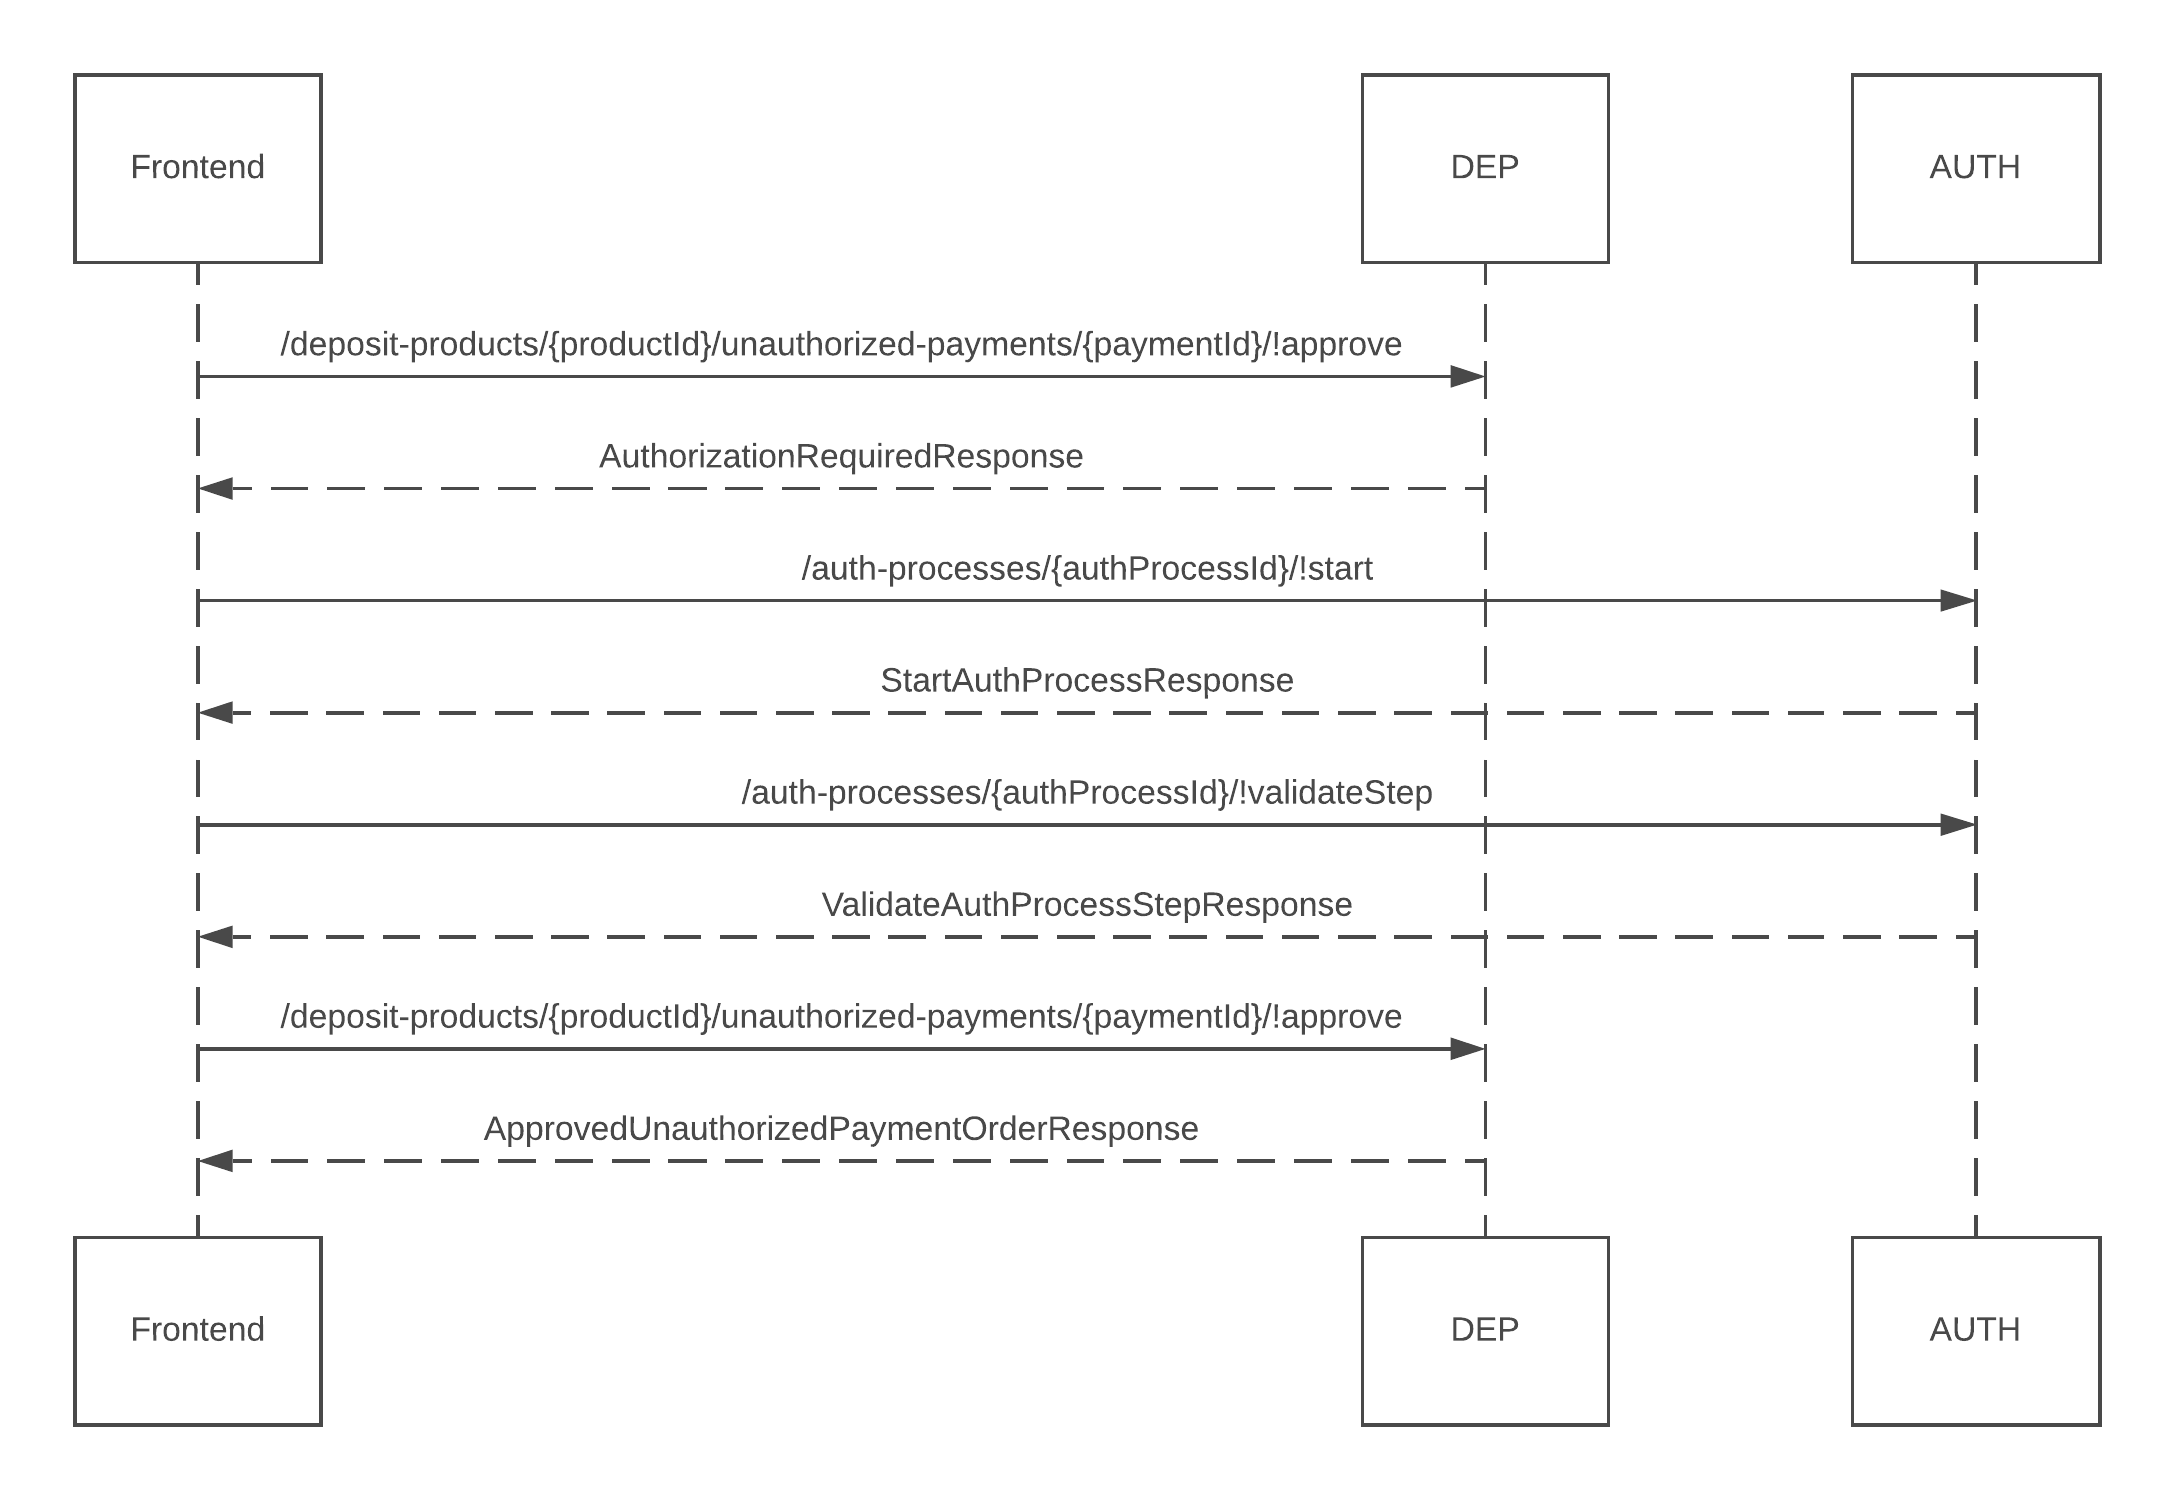
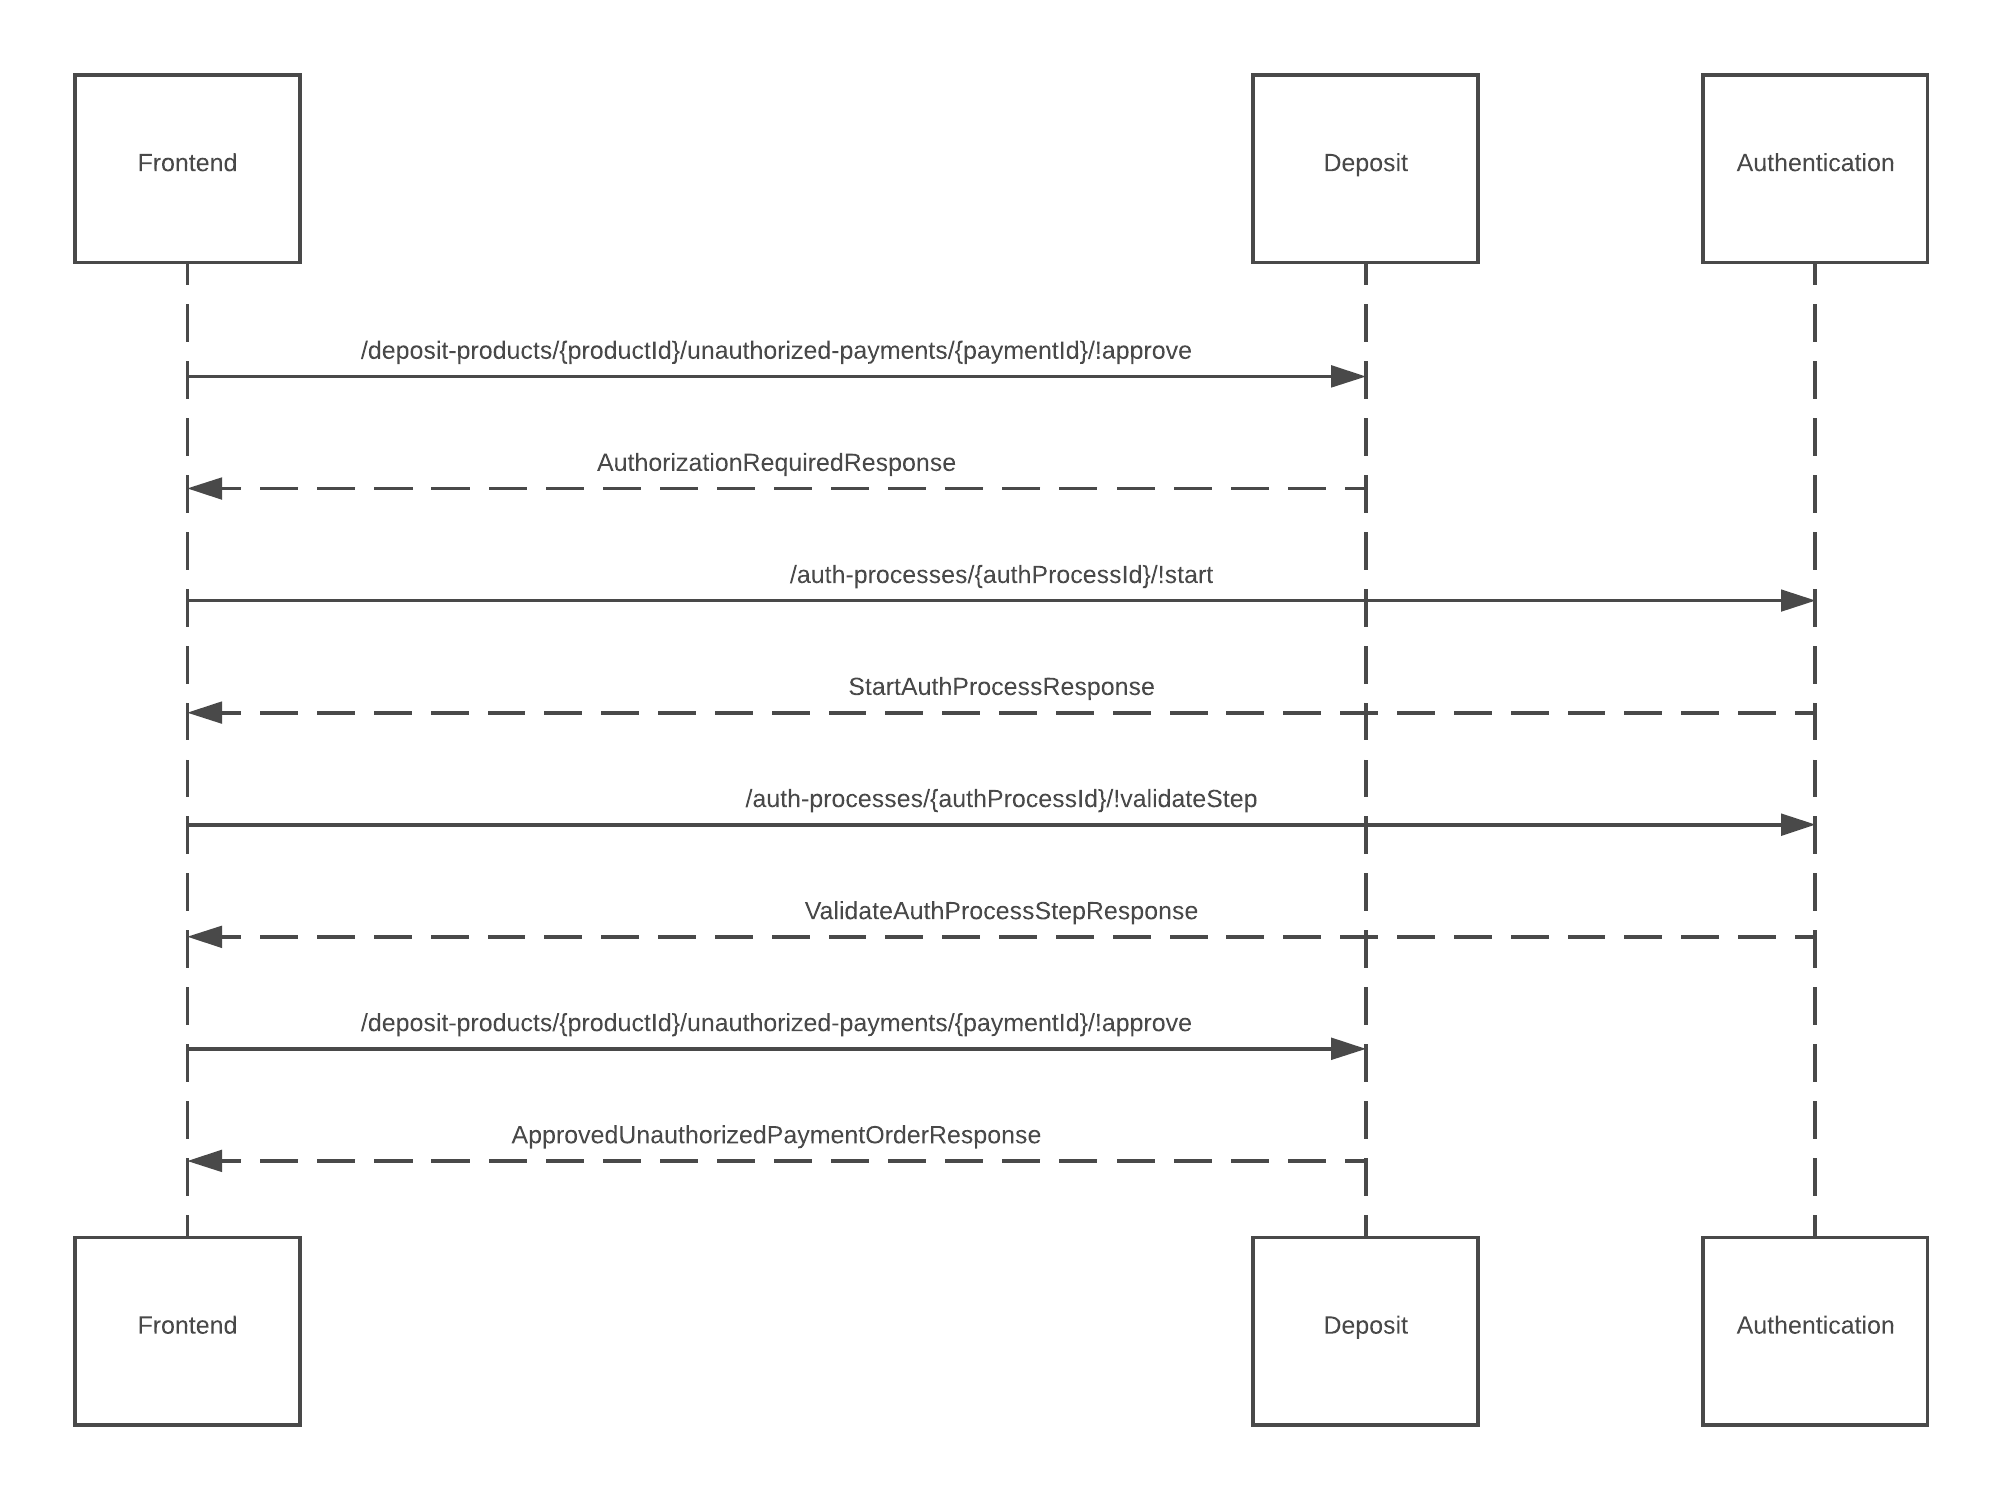
Update

diff --git a/deposits/deposits.md b/deposits/deposits.md
@@ -1,10 +1,13 @@
 # IB Deposits
 
-The **deposit service** is responsible for allowing a user to view and manage their deposit product accounts and create payments.
+## Responsibilities of the service
+
+- User can view and manage their deposit product.
+- Manage currency components.
+- User can view and manage their transactions.
+- Ability to create internal and external payment orders.
 
 ## Overview
-
-All endpoints for this service are available in the [Deposits API](https://doc.ffc.internal/book/mw-ib/mw-gen-deposit-ib/deposit-ib/latest/index.html) documentation.
 
 ### Deposit Product Account
 A `deposit product` is created during the onboarding process (see [user activation service](https://doc.ffc.internal/book/mw-ib/mw-gen-user-activation-ib.html)). Its parameters are set according to deposit product `type` selected by the user when created. A client can have more then one deposit product.
@@ -18,7 +21,7 @@ The service allows a customer to retrieve and search all their transactions. The
 The platform supports *automatic currency conversion* with incoming/outgoing transactions. This can occur when an account has insufficient funds when making an outgoing payment, or an incoming payment is in a currency that is not supported by that account. Thus, a single transaction can contain multiple sub currency conversions and fees.
 
 As a result, there are two types of transactions:
-- **RequiredTransaction**: Represents the “primary transaction” being carried out. Includes fees and any necessary auto conversions between currency components to satisfy a payment order. A required transaction can contain multiple *transactions(processedTransactions)*.
+- **RequiredTransaction**: Represents the "payment order" being carried out. Includes fees and any necessary auto conversions between currency components to satisfy a payment order. A required transaction can contain multiple *transactions(processedTransactions)*.
 - **Transaction(processedTransaction)**: Represents a single transaction i.e a currency conversion or fee. For every transaction there is one *RequiredTransaction*.
 
 Transaction statuses:
@@ -31,18 +34,14 @@ Other meta data associated with a transaction i.e merchant name can be found in 
 
 ### Payments
 
-The service allows a customer to create payment orders internally and externally:
+The service allows customer to create internal or external payment orders
 - **Internal Payment**: Payment between two internal accounts on the platform.
-- **External Payment**: Payment from an internal account to an account on an external platform.
+- **External Payment**: Payment from an internal account to an account in another financial institution.
 
 Types of Payments:
 - **Unauthorized Payments**: External payments **must** be authorised by the customer. The customer can perform authorisation using the [Auth service](https://doc.ffc.internal/book/mw-ib/mw-gen-auth-ib.html).
 - **Upcoming Payments**: Any payment that is created with a future due date.
 - **Deferred Payments**: A payment that is blocked while being processed. This could be due to insufficient funds or a *block* on the account.
-
-#### Payment order flow example
-
-![](payment_order_flow.png)
 
 ## How to use the service
 
@@ -51,6 +50,7 @@ The **Deposit service** requires that the user has been onboarded, has a deposit
 Certain operations like changing currency components or creating transactions can only be made when the deposit product is in `ACTIVE` state.
 
 - [Deposit Product](#deposit-product)
+    - [Get balance](#get-deposit-balance)  
     - [Exchange money](#exchange-money)
     - [Share account information](#share-account-information)
 - [Managing currency components](#managing-currency-components)
@@ -68,24 +68,24 @@ Certain operations like changing currency components or creating transactions ca
     - [Authorising a payment](#authorising-a-payment)
 
 ### Deposit Product
-To obtain the details of a deposit product, we can call `/{idProduct}`. The response contains details such as the name, currency components, holders, aggregated balance etc.
 
-We can also get balances for each currency component with `/{idProduct}/!getBalance`.
+#### Get deposit balance
+Retrieve balance for each currency component by calling `/deposit-products/{idProduct}/!getBalance`.
 
 #### Exchange money
-To exchange money between currency components call `/currency-exchanges`.
+To exchange money between currency components call `/deposit-products/{idProduct}/currency-exchanges`.
 
 #### Share account information
-To send user account information via email call `/!emailAccountInfo`.
+To send user account information via email call `/deposit-products/{idProduct}/!emailAccountInfo`.
 
 #### Managing currency components
 A user can manage the currency components of a deposit product by updating the primary currency or activating/deactivating currency components.
 
 #### Change primary currency
-To change the primary currency component call `/{idProduct}/currencyPriorities`. The desired primary current should have the highest priority.
+To change the primary currency component call `/deposit-products/{idProduct}/currencyPriorities`. The desired primary current should have the highest priority.
 
 #### Activate/deactivate components
-A currency component can be activated by calling `/{idProduct}/!activateCurrency` and deactivated by calling `/{idProduct}/!deactivateCurrency`.
+A currency component can be activated by calling `/deposit-products/{idProduct}/!activateCurrency` and deactivated by calling `/deposit-products/{idProduct}/!deactivateCurrency`.
 
 In order to deactivate a currency component, it **must** have zero balance and not be the primary currency.
 
@@ -94,7 +94,7 @@ The ability to activate or deactivate currency components also depends on the co
 ### Transactions
 Users can retrieve a list of `RequiredTransactions` or `ProcessedTransactions`. Either can be filtered by updating the `TransactionListRequest` object.
 
-Only `RequiredTransactions` can be updated. To update see `/required-transactions/{idTransaction}`.
+Only `RequiredTransactions` can be updated. Call `/deposit-products/{idProduct}/!deactivateCurrency` endpoint to update.
 
 #### RequiredTransaction's
 
@@ -104,31 +104,22 @@ Use the `/required-transactions/!search` endpoint to obtain the list of `ids` fo
 Use the `/transactions/!search` endpoint to obtain the list of `ids` followed by the `/transactions/!batchGet` endpoint to obtain the detail.
 
 ### Payments
-For each payment type the customer can retrieve a summary containing the aggregated sum, count and a list of payments.
 
 #### Unauthorized Payments
-To retrieve a summary of all `unauthorized payments` call `/!getUnauthorizedPaymentsSummary`.
-
-To retrieve a list of all the `unauthorized payments`, we can call the `/!search` endpoint to obtain the list of `ids` followed by the `/!batchGet` call to obtain the payment detail.
+To retrieve a summary of all `unauthorized payments` call `/deposit-products/{idProduct}/!getUnauthorizedPaymentsSummary`.
 
 #### Upcoming Payments
-To retrieve a summary of all `upcoming payments` call `/!getUpcomingSummary`.
+To retrieve a summary of all `upcoming payments` call `/deposit-products/{idProduct}/!getUpcomingSummary`.
 
-To retrieve a list of all the `upcoming payments`, we can call the `/!search` call to obtain the payment detail.
-
-An `upcoming payment` can be cancelled by calling the `/!cancel` endpoint.
+An `upcoming payment` can be cancelled by calling the `/deposit-products/{idProduct}/upcoming-payments/{idPayment}/!cancel` endpoint.
 
 #### Deferred Payments
-To retrieve a summary of all `deferred payments` call `/!getDeferredSummary`.
+To retrieve a summary of all `deferred payments` call `/deposit-products/{idProduct}/!getUpcomingSummary`.
 
-To retrieve a list of all the `deferred payments`, we can call the `/!search` endpoint to obtain the list of *id*'s followed by the `/!batchGet` call to obtain the payment detail.
-
-`Deferred` payment detail can be obtained by calling the `/deferred-transactions/{idTransaction}` endpoint.
-
-A `deferred payment` can be cancelled by calling the `/!cancel` endpoint.
+A `deferred payment` can be cancelled by calling the `/deposit-products/{idProduct}/deferred-transactions/{idTransaction}/!cancelPayment` endpoint.
 
 #### Create internal payment
-An Internal payment can be created by calling the `/!createInternalCreditTransfer`. The amount and the recipient's internal account number must be provided.
+An Internal payment can be created by calling `/deposit-products/{idProduct}/!createInternalCreditTransfer`. The amount, currency code and the recipient's internal account number must be provided.
 
 #### Create external payment
 
@@ -142,9 +133,9 @@ If everything is alright, the payment order is created.
 
 #### Authorising a payment
 Unauthorized payments can be authorised using the [Auth service](https://doc.ffc.internal/book/mw-ib/mw-gen-auth-ib.html).
-1. Customer attempts to approve a payment by calling the `/!approve` endpoint. Authorization is required if the response status code is `418`. The response will contain auth scenarios such as `PWD`, `SMS`, `PWD_SMS` etc. One of scenarios must be satisfied before authorisation can occur.
+1. Customer attempts to approve a payment by calling the `/deposit-products/{idProduct}/unauthorized-payments/{idPayment}/!approve` endpoint. Authorization is required if the response status code is `418`. The response will contain auth scenarios such as `PWD`, `SMS`, `PWD_SMS` etc. One of scenarios must be satisfied before authorisation can occur.
 2. Kick of the [Auth service](https://doc.ffc.internal/book/mw-ib/mw-gen-auth-ib.html). The response will contain the steps to be carried out for the given auth scenario.
 3. Validate the steps.
-4. Call the `/!approve` endpoint again to complete the authorization.  
+4. Call the `/deposit-products/{idProduct}/unauthorized-payments/{idPayment}/!approve` endpoint again to complete the authorization.  
 
 ![authorising_payment](auth_payment_sequence.png)
